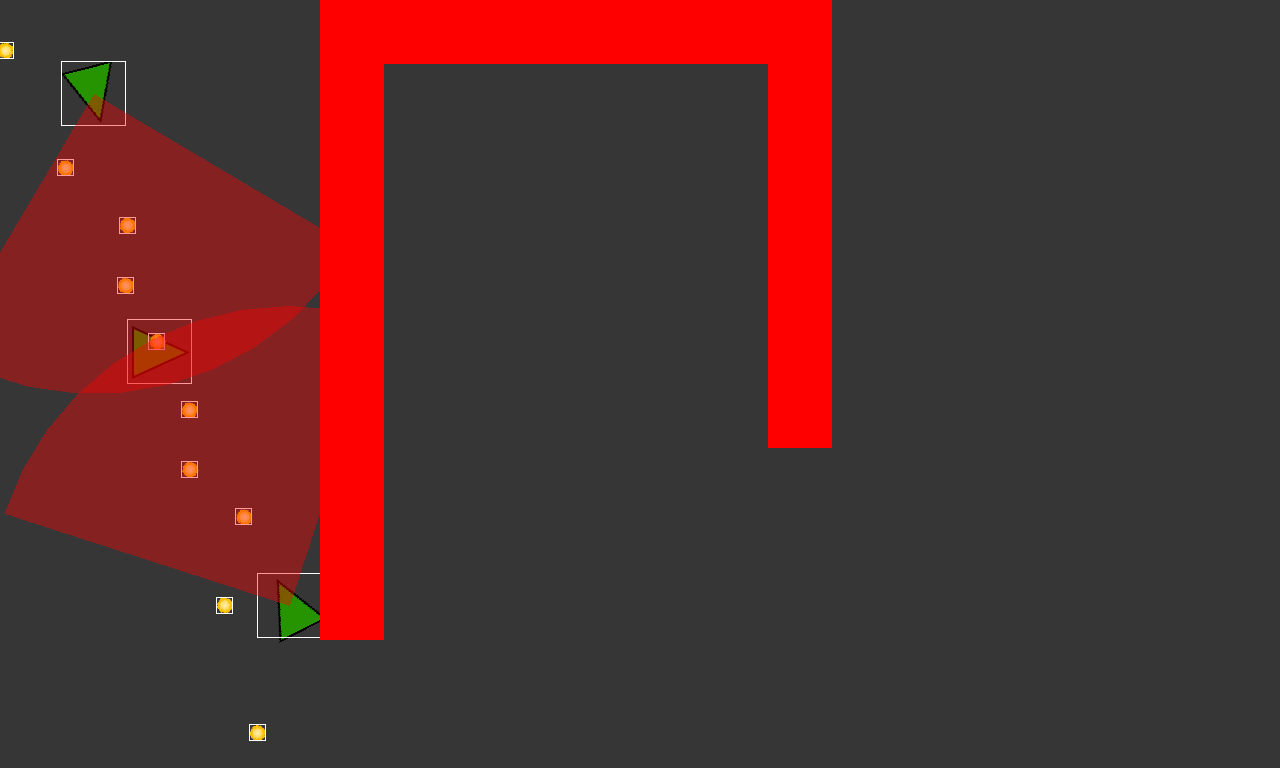
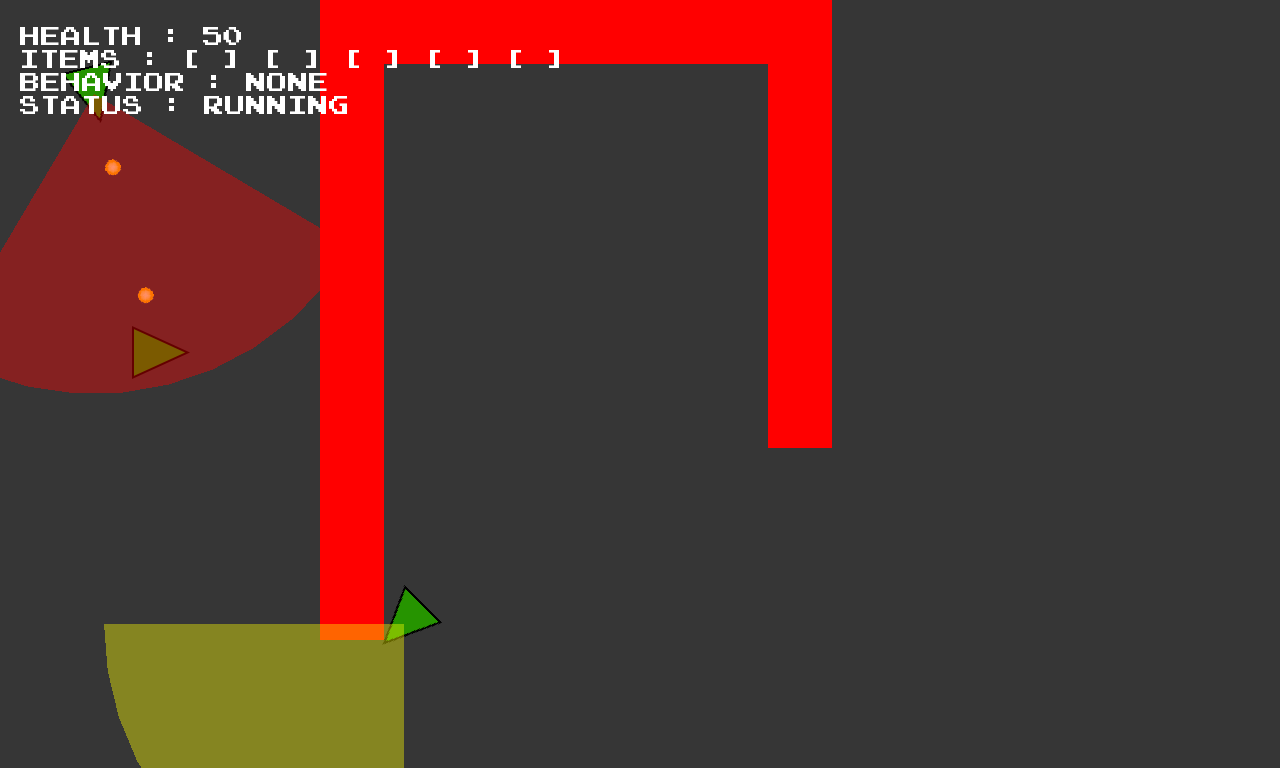
Memory management + Visiion Cone Patch(Hacky solution)

diff --git a/AI/AIPlayroom.cpp b/AI/AIPlayroom.cpp
@@ -111,6 +111,8 @@ void AIPlayroom::RemoveAgent(BaseAIAgent* ptr)
 
 void AIPlayroom::spawnBullet(const std::shared_ptr<Entity>& entity, const std::shared_ptr<Entity>& target) {
     //spawning bullet
+    if (target)
+    {
     auto bullet = m_entityManager.addEntity("bullet", entity);
     bullet->addComponent<CAnimation>(m_game->assets().getAnimation("Buster"), true);
 
@@ -133,6 +135,9 @@ void AIPlayroom::spawnBullet(const std::shared_ptr<Entity>& entity, const std::s
 
 
     //Turn towards Target
+    //NOTE: If you get pointed to this after player died,it's b because the target is a nullptr
+    //TODO: FIX IT SO THAT THE IT ONLY FIRES WHILE THE TARGET EXISTS
+   
     float deltaX = targetTransform.pos.x - entity->getComponent<CTransform>().pos.x;
     float deltaY = targetTransform.pos.y - entity->getComponent<CTransform>().pos.y;
     float angleRadians = std::atan2(deltaY, deltaX); // Angle in radians
@@ -148,6 +153,7 @@ void AIPlayroom::spawnBullet(const std::shared_ptr<Entity>& entity, const std::s
     bullet->getComponent<CTransform>().velocity.y = sin(angleRadians) * speed;
     bullet->addComponent<CLifespan>(120, m_currentFrame);
     bullet->addComponent<CBoundingBox>(bullet->getComponent<CAnimation>().animation.getSize());
+    }
 }
 
 void AIPlayroom::update() {
@@ -160,7 +166,7 @@ void AIPlayroom::update() {
         sCollision();
         sVisionCone();
         RunBehaviourTrees();
-        sVisionCone();
+        //sVisionCone();
         m_currentFrame++;
     }
     sAnimation();
@@ -287,15 +293,7 @@ void AIPlayroom::sVisionCone()
     //NOTE: This is the WORST way to do this
     //TODO: REDO THIS!
     auto& players = m_entityManager.getEntities("player");
-    if (players.empty())
-    {
-        for (auto& enemy : m_entityManager.getEntities("agent")) {
-            auto& vision = enemy->getComponent<CVision>();
-            vision.seesPlayer = false;
-            vision.Target = nullptr;
-            return;
-        }
-    }
+   
     Vec2 playerPos = players[0]->getComponent<CTransform>().pos;
 
     for (auto& enemy : m_entityManager.getEntities("agent")) {
@@ -317,15 +315,28 @@ void AIPlayroom::sVisionCone()
             vision.seesPlayer = false;
             vision.Target = nullptr;
             return;
-        }
-        else {
+        }   
+        else if (!players.empty() && vision.IsTargetInFOV(eye, lookDir, playerPos))
+        {
 
-            vision.seesPlayer = true;
-            vision.Target = players[0]; //Change this so that it sets whatever it sees as the target
-            std::cout << "SAW THE PLAYER\n";
-        }
+                vision.seesPlayer = true;
+                vision.Target = players[0]; //Change this so that it sets whatever it sees as the target
+                std::cout << "SAW THE PLAYER\n";
+            }
+        
 
     }
+/*
+    if (players.empty())
+    {
+        for (auto& enemy : m_entityManager.getEntities("agent")) {
+            auto& vision = enemy->getComponent<CVision>();
+            vision.seesPlayer = false;
+            vision.Target = nullptr;
+            return;
+        }
+    }*/
+
 }
 
 void AIPlayroom::drawVisionCone()

diff --git a/AI/Agents/BaseAIAgent.h b/AI/Agents/BaseAIAgent.h
@@ -20,7 +20,7 @@ public:
 	bool hasWeapon = true;
 	bool hasFood = false;
 	int maxHealth = 100;
-    int health=100; //NOTE : Need to clean and build for this to get updated
+    int health; //NOTE : Need to clean and build for this to get updated
 	bool houseVisible = false;
 	bool itemVisible = false;
 	bool destinationReached = false;
@@ -39,7 +39,7 @@ public:
 	virtual void update() =0;
 	void updateCurrentPath(const Vec2& Destination);
 
-    void TakeDamage(int damageAmount=35);
+    void TakeDamage(int damageAmount=1);
 	void pickUpItem(ItemType item);
 	void shootEnemy();
 	void flee();

diff --git a/AI/Agents/BaseAIAgent.cpp b/AI/Agents/BaseAIAgent.cpp
@@ -41,7 +41,8 @@ void BaseAIAgent::consumeFood()
 
 void BaseAIAgent::HandleDeath()
 {
-    BehaviourTree.reset();
+    BehaviourTree.reset(); 
+    BehaviourTree = nullptr;
     room->RemoveAgent(this);
 }
 
